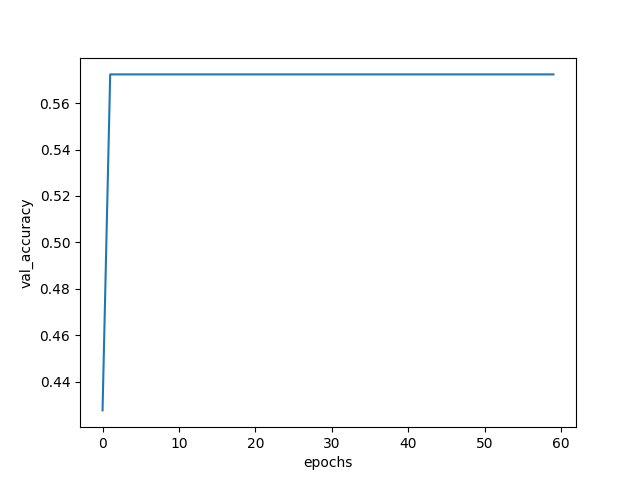
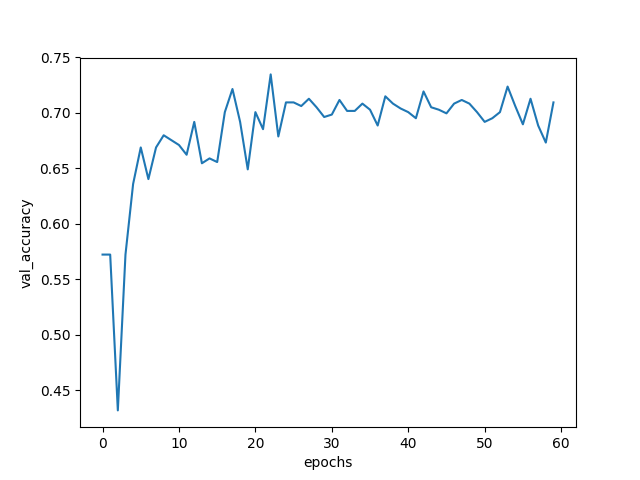
Prevent overfit of val

diff --git a/Nick_tests/replicate/gender_model.py b/Nick_tests/replicate/gender_model.py
@@ -234,7 +234,7 @@ model.type(dtype)
 model.train()
 loss_fn = nn.CrossEntropyLoss().type(dtype)
 # 1e-1 too high
-optimizer = optim.Adam(model.parameters(), lr=8e-5,weight_decay=3e-2)
+optimizer = optim.Adam(model.parameters(), lr=1e-4,weight_decay=1e-3)
 print("start training")
 loss_history,acc_history,val_acc_history=train(train_loader,val_loader, model, loss_fn, optimizer, dtype,num_epochs=15, print_every=17)
 
